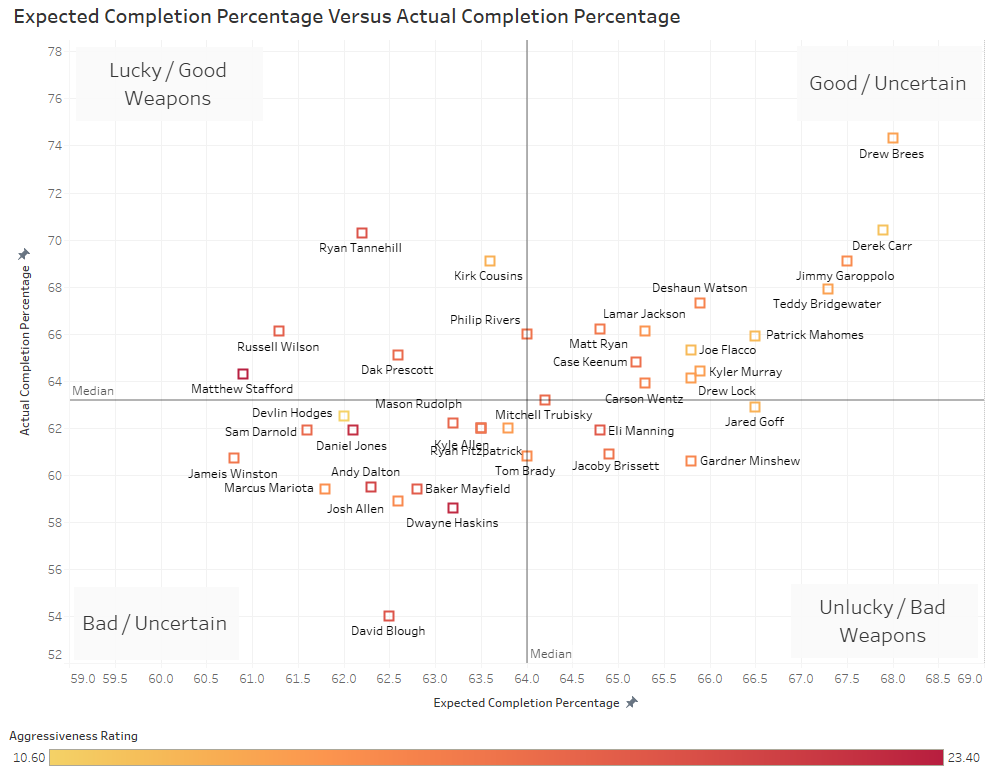
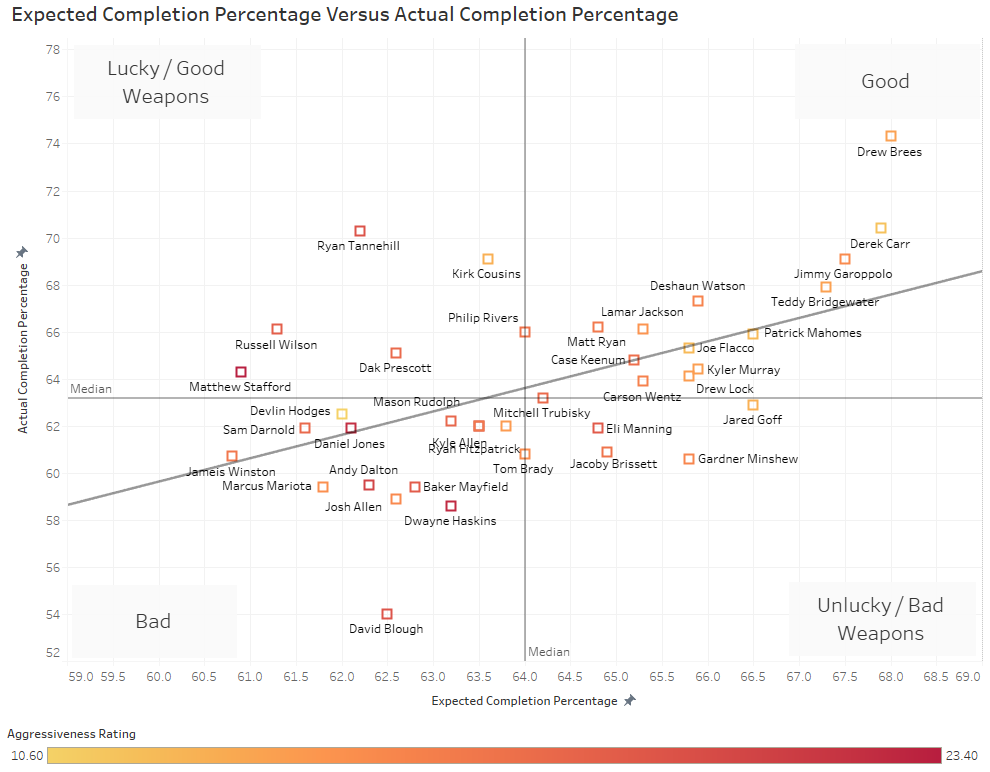
Update of QBShelp

diff --git a/_posts/2020-03-08-Which-QBs-Need-Help-In-2020.md b/_posts/2020-03-08-Which-QBs-Need-Help-In-2020.md
@@ -14,10 +14,10 @@ What graph 1 represents is which Quarterbacks make the most of the precious time
 
 In the second plot, we have quarterbacks expected completion percentage plotted against their actual completion percentage. Expected completion percentage is calculated using the probability of pass completion, based on numerous factors such as receiver separation from the nearest defender, where the receiver is on the field, the separation the passer had at the time of throw from the closest pass rusher, and more. Once that probability is calculated on every play, an expected completion percentage for that QB is calculated. The difference between the actual completion percentage and expected completion percentage has multiple interpretations. If actual completion percentage is above expected completion percentage, it could mean the QB is 'lucky' or that his receivers make him look better than what his throws warrant (or both).
 
-Conversely, if the actual completion percentage is below expected completion percentage, the QB could be 'unlucky', or his receivers are making him look worse than his throws suggest (or both). The colouring of points of this graph corresponds to the percentage of that QBs throws, which are 'aggressive.' Specifically, aggressiveness tracks the amount of passing attempts a QB makes that are into tight coverage, where there is a defender within 1 yard or less of the receiver at the time of completion or incompletion. These aggressive attempts are then divided by the QBs total pass attempts.
+Conversely, if the actual completion percentage is below expected completion percentage, the QB could be 'unlucky', or his receivers are making him look worse than his throws suggest (or both). The colouring of points of this graph corresponds to the percentage of that QBs throws, which are 'aggressive.' Specifically, aggressiveness tracks the amount of passing attempts a QB makes that are into tight coverage, where there is a defender within 1 yard or less of the receiver at the time of completion or incompletion. These aggressive attempts are then divided by the QBs total pass attempts. The diagonal in the graph represents where Expected completion percentage is equal to actual completion percentage. So anyone below the diagonal was completing less than expected and anyone above was completing more than expected (given the passes they threw).
 
 What Graph 2 represents is which quarterbacks are getting help from their weapons, and which are not. If a quarterback is in the bottom left quadrant on graph 2, this does not necessarily mean he has bad weapons. The Quarterback himself may just be bad since his expected completion percentage is low to begin with. Notice that most quarterbacks with low expected completion percentages also tend to be a little more aggressive. The top left quadrant features quarterbacks who are overachieving given the passes they threw in the 2019 season. This overachievement could be because they are lucky (for example tipped passes and misplays by the defence) or it could be because they have great weapons (or both). So is Dak Prescott worth what he is asking for in his contract talks?
 
 Meanwhile, there are some quarterbacks which either got unlucky in 2019, or their receivers let them down (or both). Look for New England, Jacksonville, Indianapolis, the LA Rams, and Chicago to consider improving their offensive weapons this offseason.
 
-_Data for this post came from [Next Gen Stats](https://nextgenstats.nfl.com/stats/passing).Graph were for QBs who had more than 128 pass attempts in the 2019 season. Good/Bad Weapons = Good/Bad Receivers around a particular Quarterback in question._
+_Data for this post came from [Next Gen Stats](https://nextgenstats.nfl.com/stats/passing).Graph were for QBs who had more than 128 pass attempts in the 2019 season. Good/Bad Weapons = Good/Bad Receivers around a particular Quarterback in question. Please note that the quadrants for both graphs are defined by the medians of each axis. This analysis is relative in nature, not absolute._
